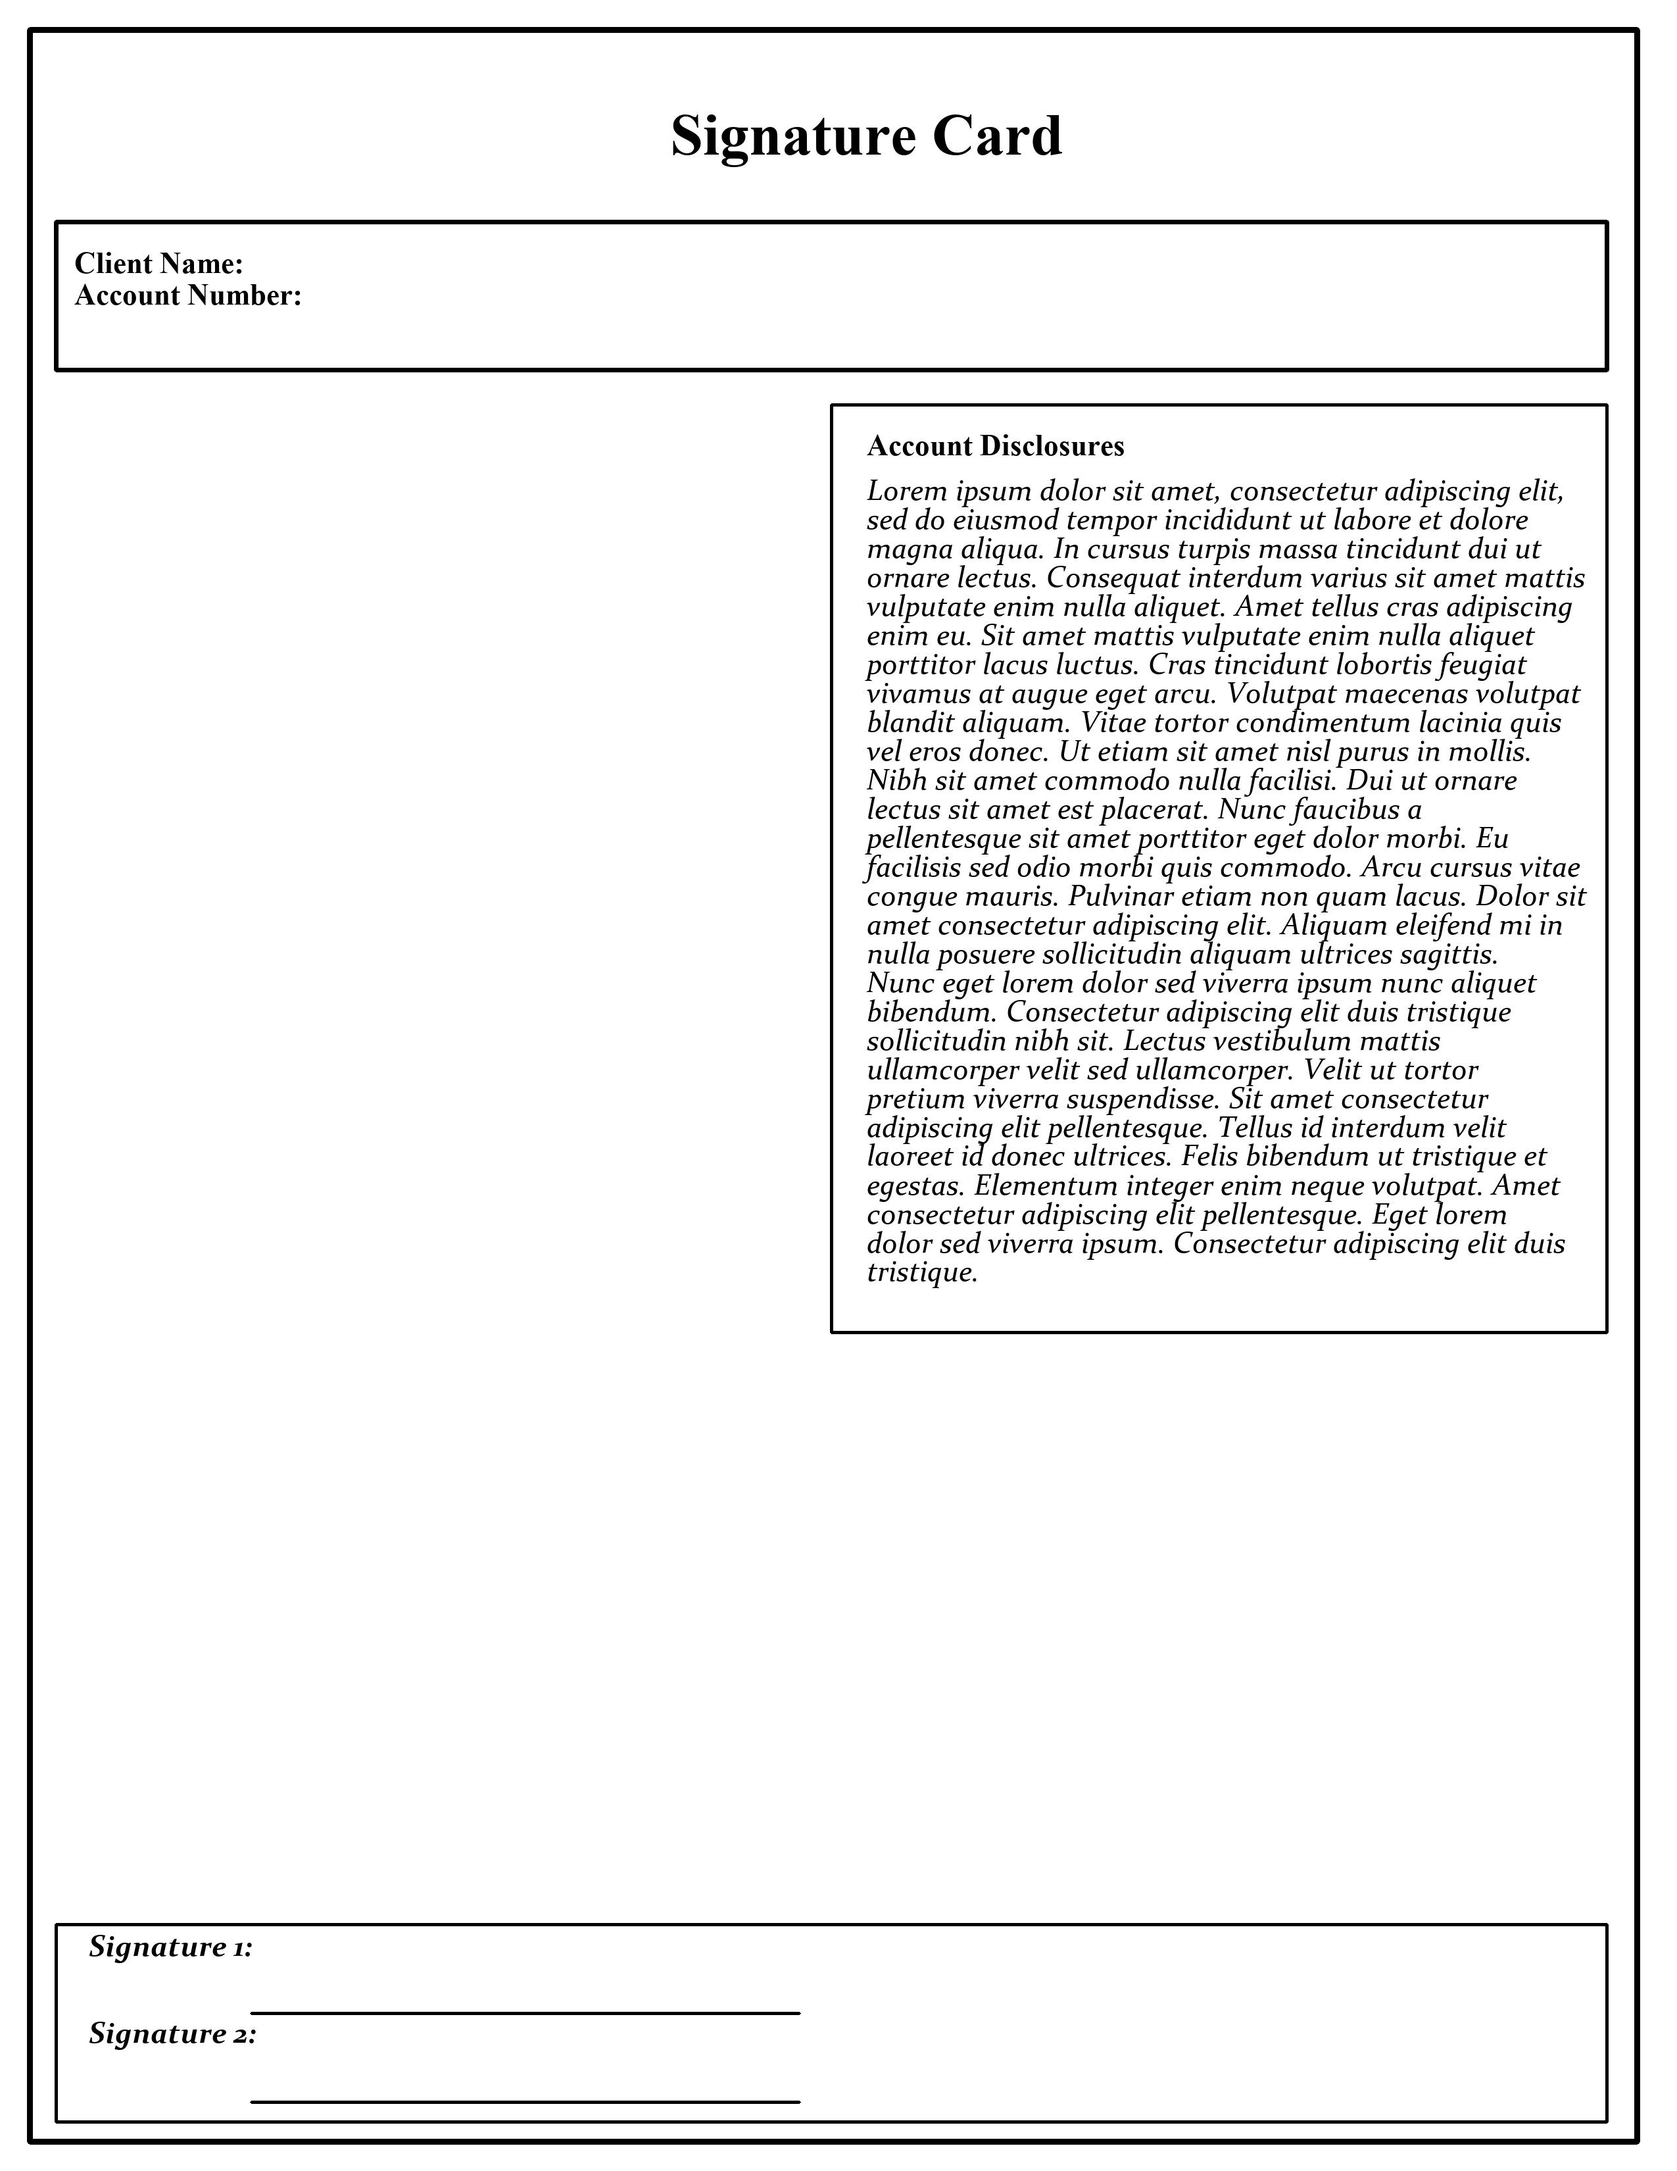
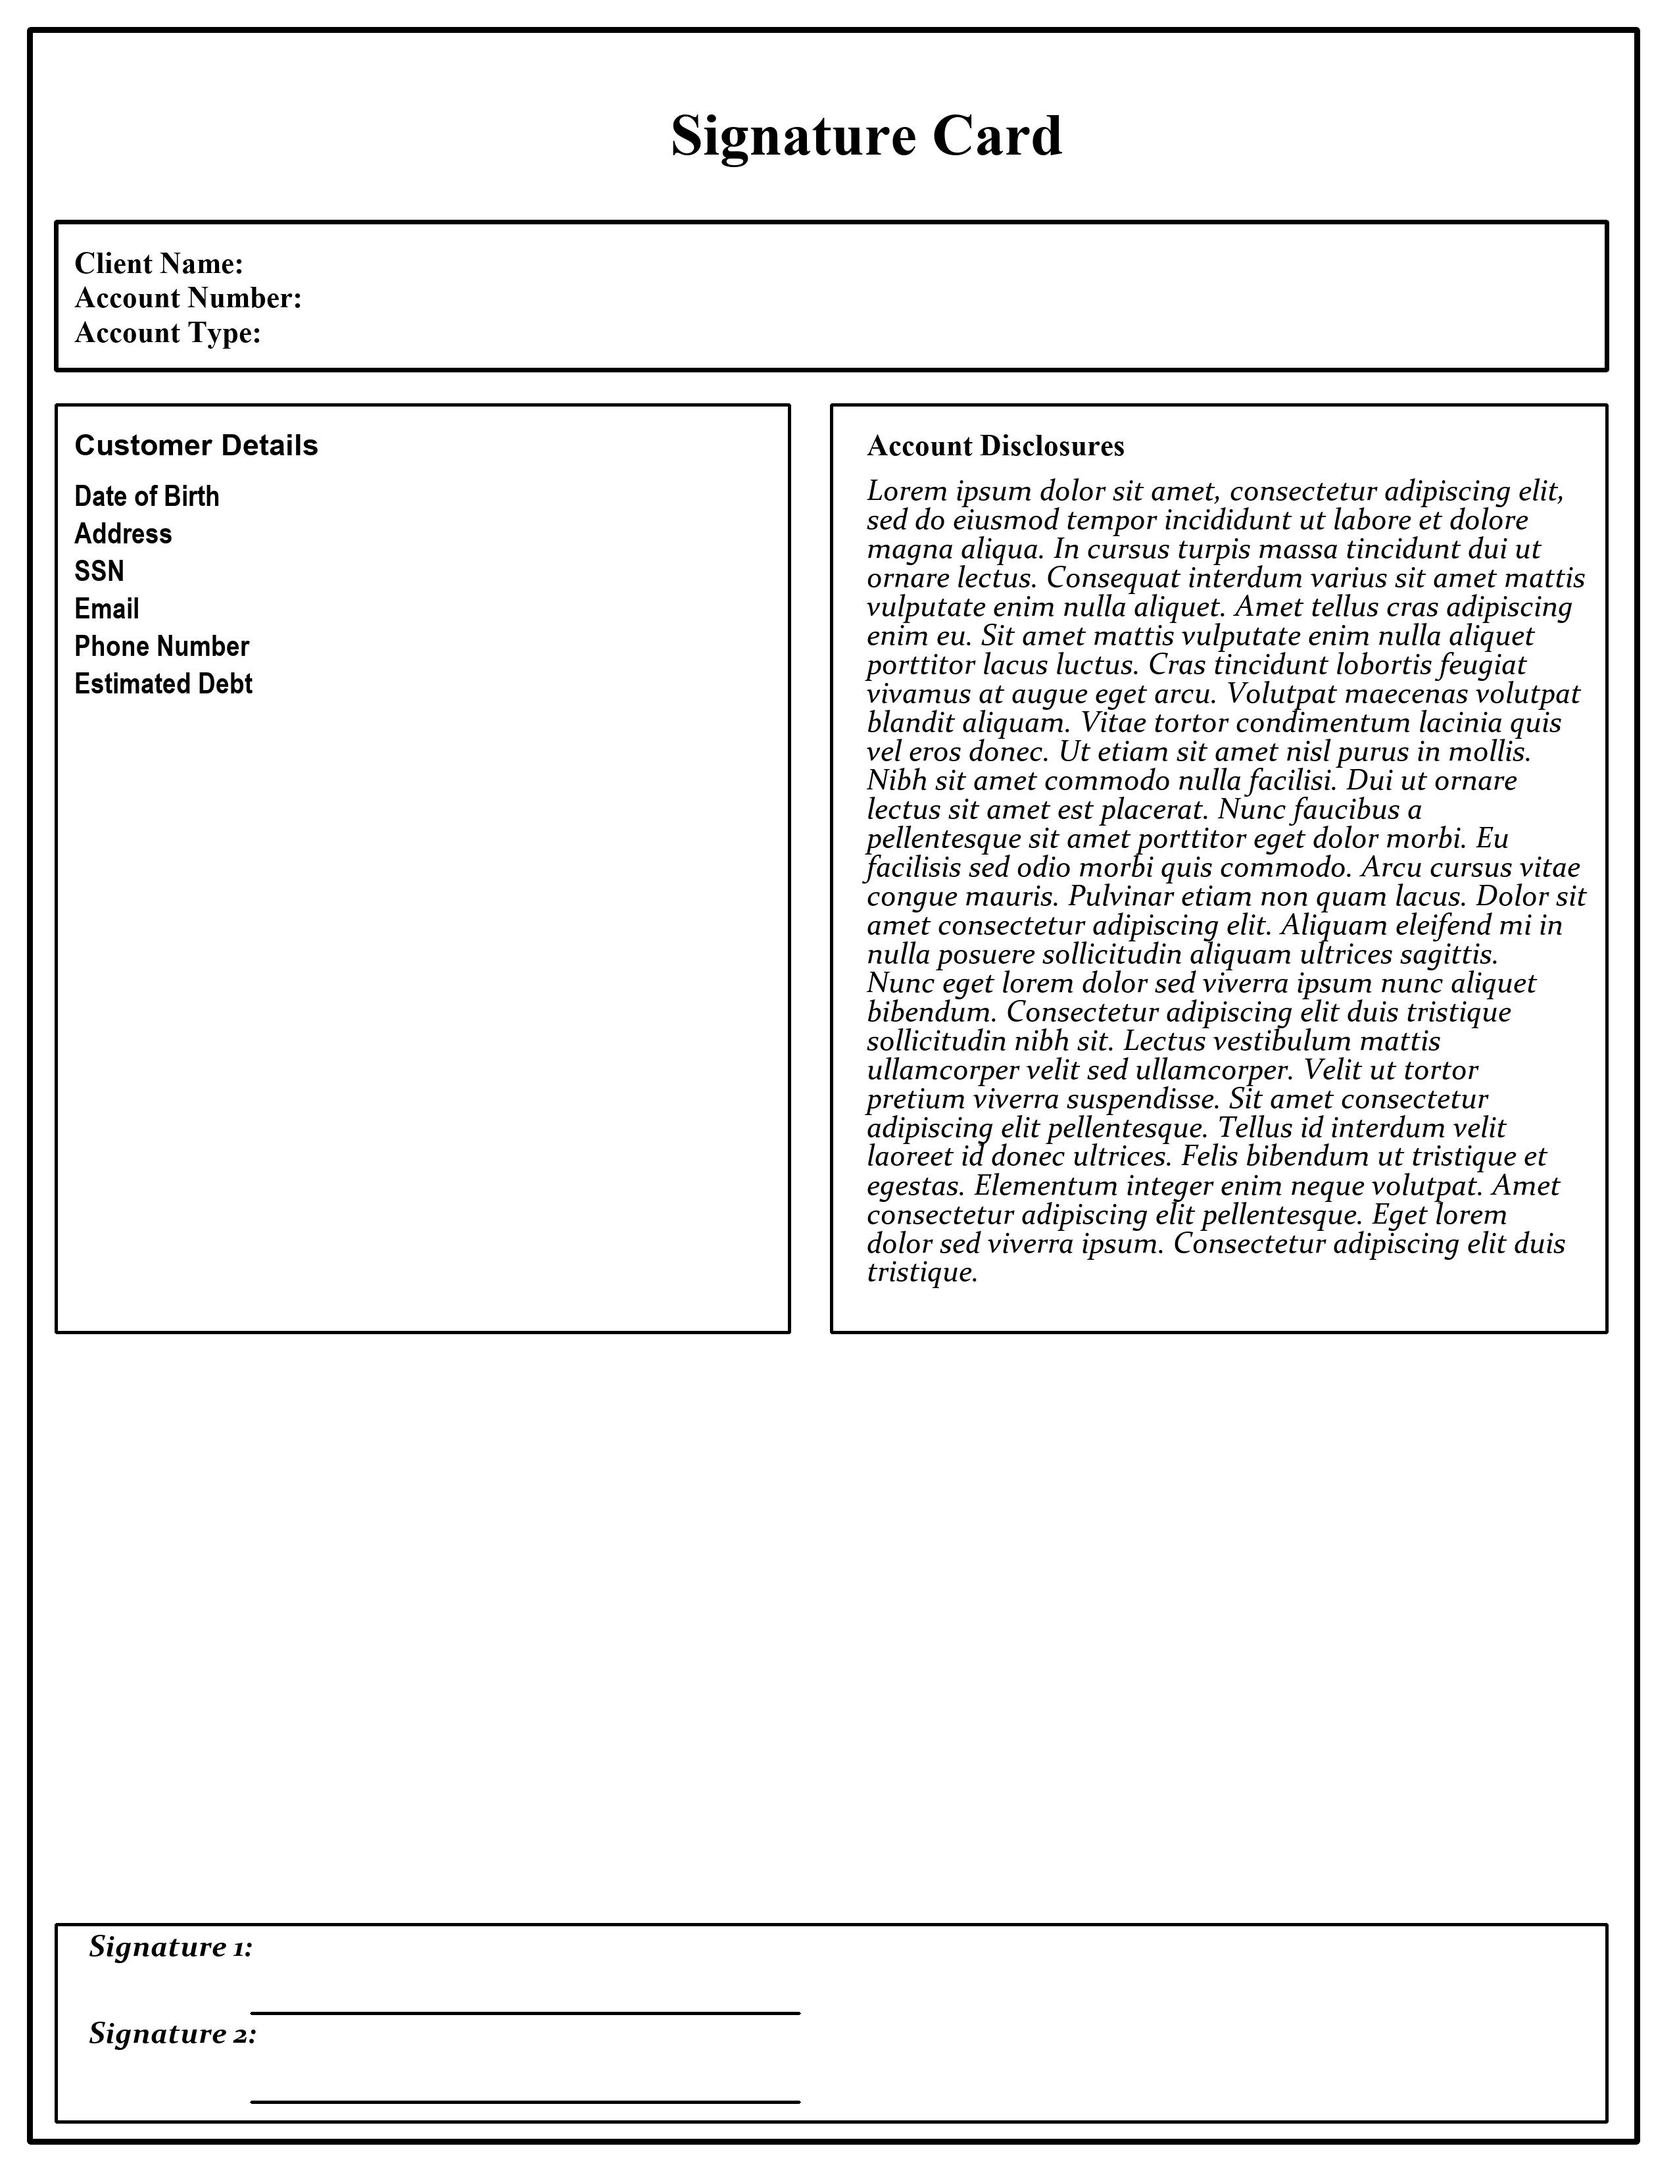
Added Customer Detail box

Changed region(s): [[0.031, 0.1873, 0.1859, 0.3433], [0.031, 0.1248, 0.1549, 0.1561]]

diff --git a/create_template.py b/create_template.py
@@ -31,6 +31,10 @@ imagewidth = 2550
 imageheight = 3300
 
 template = Image.new('RGB', (imagewidth, imageheight), 'white')
+title_font = r'C:\Windows\Fonts\Arial\arialbd.ttf'
+header_font = r'C:\Windows\Fonts\Arial\ARIALNB.TTF' 
+regular_font = r'C:\Windows\Fonts\Arial\arial.ttf' 
+
 
 #writes title
 title = ImageDraw.Draw(template)
@@ -72,12 +76,10 @@ name.font = ImageFont.truetype(r'C:\Windows\Fonts\Constantia\constani.ttf', 45)
 #title.text((90,86), randomname, font = name.font, fill=(0,0,0))
 
 
-#writes name title
+#writes name Number title
 accounttitle = ImageDraw.Draw(template)
 accounttitle.font = ImageFont.truetype(r'C:\Windows\Fonts\Times New Roman\timesbd.ttf', 45) 
-accounttitle.text((neww(25),newh(96)), "Account Number:", font = accounttitle.font, fill=(0,0,0))
-
-
+accounttitle.text((neww(25),newh(97)), "Account Number:", font = accounttitle.font, fill=(0,0,0))
 
 
 #writes account disclosures title
@@ -106,7 +108,25 @@ signature2title = ImageDraw.Draw(template)
 signature2title.font = ImageFont.truetype(r'C:\Windows\Fonts\Constantia\constanz.ttf', 45) 
 signature2title.text((neww(30), newh(698)), "Signature 2: ", font = signature2title.font, fill=(0,0,0))
 
+#writes account types title
+typetitle = ImageDraw.Draw(template)
+typetitle.font = ImageFont.truetype(r'C:\Windows\Fonts\Times New Roman\timesbd.ttf', 45) 
+typetitle.text((neww(25),newh(109)), "Account Type: ", font = typetitle.font, fill=(0,0,0))
 
+#writes customer information
+detailtitle = ImageDraw.Draw(template)
+detailtitle.font = ImageFont.truetype(f'{title_font}', 45) 
+detailtitle.text((neww(25), newh(148)), "Customer Details ", font = detailtitle.font, fill=(0,0,0))
+
+#writes each row of information
+details = ['Date of Birth', 'Address', 'SSN', 'Email', 'Phone Number', 'Estimated Debt']
+loop_counter = 0
+for detail in details:
+	details = ImageDraw.Draw(template)
+	details.font = ImageFont.truetype((f'{header_font}'), 45) 
+	details.text((neww(25), newh(165+(loop_counter*13))), detail, font = details.font, fill=(0,0,0))
+
+	loop_counter = loop_counter + 1
 
 template.save('template.jpg')
 
@@ -118,7 +138,7 @@ disclosure_border = cv2.rectangle(template, (1264, 615), (2443, 2025), (0, 0, 0)
 signature_border = cv2.rectangle(template, (85, 2925), (2443, 3225), (0, 0, 0), 3) #draws the border around the disclosure stuff
 signature_line = cv2.line(template, (382, 3060), (1215, 3060), (0, 0, 0), 3)
 signature_line2 = cv2.line(template, (382, 3195), (1215,3195), (0, 0, 0), 3)
-
+details_border = cv2.rectangle(template, (85, 615), (1200, 2025), (0, 0, 0), 3) #draws the border around the customer information
 cv2.imwrite('template.jpg', template)
 
 scale_percent = 20 # percent of original size

diff --git a/create_bulk_signature_cards.py b/create_bulk_signature_cards.py
@@ -29,6 +29,7 @@ except:
 bypass = True
 tiltMin = -5
 tiltMax = 5
+account_types = ['Checking', 'Savings']
 
 if bypass == False:
 	while numberSet == False:
@@ -88,15 +89,26 @@ for number in range(number):
 
 	#writes name
 	name = ImageDraw.Draw(sigcard)
-	name.font = ImageFont.truetype(r'C:\Windows\Fonts\Constantia\constani.ttf', 45) 
-	name.text((405,387), randomname, font = name.font, fill=(0,0,0))
+	name.font = ImageFont.truetype(r'C:\Windows\Fonts\Times New Roman\timesbd.ttf', 45) 
+	name.text((405,375), randomname, font = name.font, fill=(0,0,0))
+
+	#writes wet signature 
+	signature_list = ['VINERITC.TTF', 'constani.ttf', 'ITCBLKAD.TTF', 'BRUSHSCI.TTF', 'VLADIMIR.TTF']
+	wetsignaturetitle = ImageDraw.Draw(sigcard)
+	wetsignaturetitle.font = ImageFont.truetype(f"C:\Windows\Fonts\{random.choice(signature_list)}", 45) 
+	wetsignaturetitle.text((400, 3006), randomname, font = wetsignaturetitle.font, fill=(0,0,0))
 
 	#writes new account number
 	account = ImageDraw.Draw(sigcard)
 	account.font = ImageFont.truetype(r'C:\Windows\Fonts\Times New Roman\timesbd.ttf', 45) 
-	account.text((495,423), accountnumber, font = account.font, fill=(0,0,0))
-	#sigcard.save(f"created/{number}.jpg")
+	account.text((495,428), accountnumber, font = account.font, fill=(0,0,0))
 
+	#writes new type number
+	type = ImageDraw.Draw(sigcard)
+	type.font = ImageFont.truetype(r'C:\Windows\Fonts\Times New Roman\timesbd.ttf', 45) 
+	type.text((440,480), random.choice(account_types), font = type.font, fill=(0,0,0))
+
+	
 	#adds qr code
 	if random.randrange(0,1) == 0: #change 1 to 2 if you want to randomly add a qr code
 		qrmessage = f"document name: signature card - account number: {str(accountnumber)} - name1: {randomname}"
@@ -105,6 +117,8 @@ for number in range(number):
 		#qrcodeimg = qrcodeimg.resize((200,200))
 		sigcard.paste(qrcodeimg, (1900,2400))
 		#(2443, 3225)
+	
+
 	path = f"scans/scan_number_{number+1}.jpg"
 	sigcard.save(path)
 
